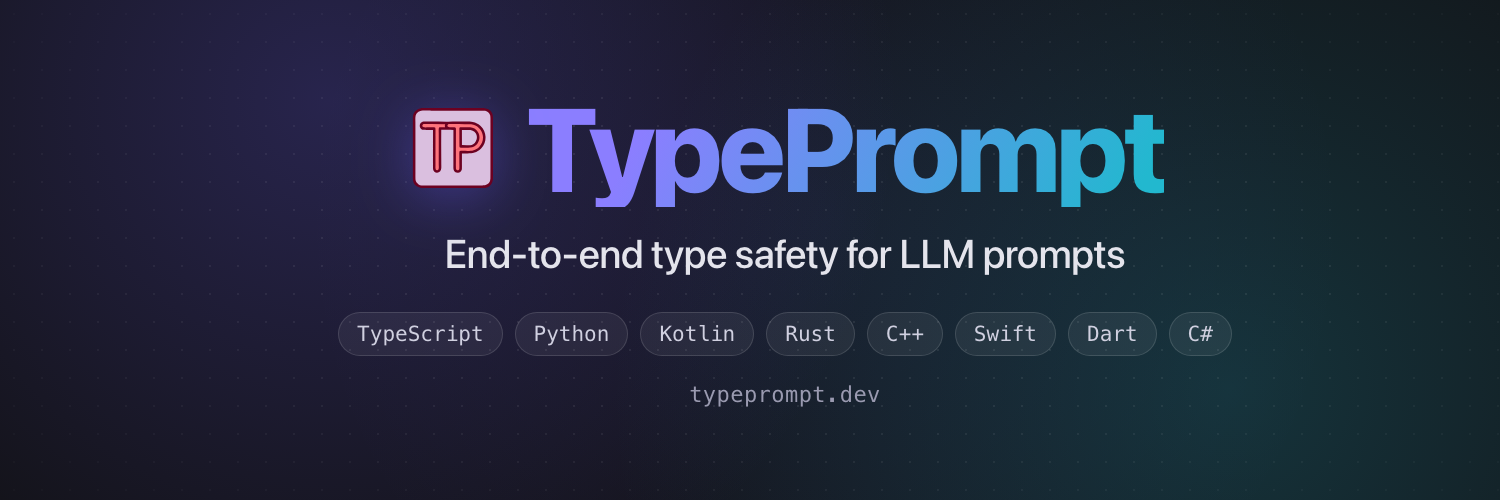
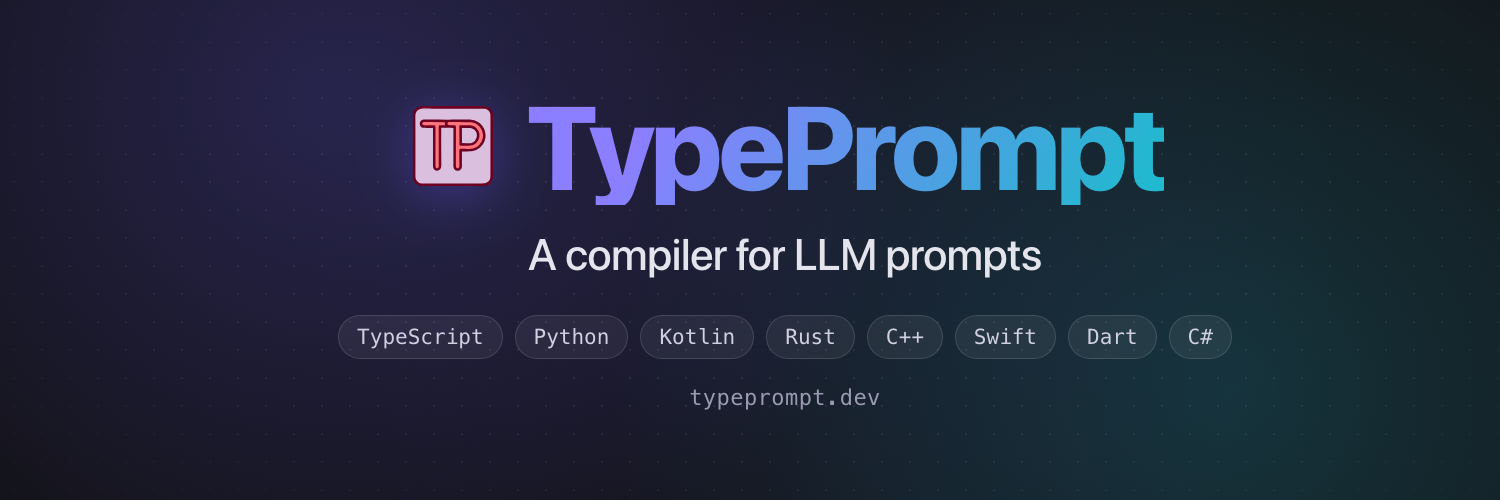
update tag line

diff --git a/README.md b/README.md
@@ -3,11 +3,11 @@
 
 # TypePrompt
 
-**End-to-end type safety for LLM prompts.**
+**A compiler for LLM prompts.**
 
 [Website](https://typeprompt.dev) · [Docs](https://typeprompt.dev/introduction) · [Quick Start](https://typeprompt.dev/quick-start) · [VS Code Extension](https://marketplace.visualstudio.com/items?itemName=gepheum.typeprompt-vscode) · [Examples](examples)
 
-Write prompt templates with schemas, tools, and few-shot examples in dedicated `.tp` files. TypePrompt compiles them into a type-safe API for your target language — with zero framework lock-in, ready to drop into whatever LLM SDK you already use.
+Write prompt instructions, schemas, tools, and few-shot examples in dedicated `.tp` files. TypePrompt validates them at build time and compiles them into a type-safe API for your target language — with zero framework lock-in, ready to drop into whatever LLM SDK you already use.
 
 **Supported languages:** TypeScript, Python, Kotlin, Rust, C++, Swift, Dart, C#
 

diff --git a/docs/index.md b/docs/index.md
@@ -1,12 +1,12 @@
 ---
 layout: home
 title: TypePrompt
-titleTemplate: End-to-end type safety for LLM prompts
+titleTemplate: A compiler for LLM prompts
 
 hero:
   name: TypePrompt
-  text: End-to-end type safety for LLM prompts
-  tagline: Write prompt templates with schemas and few-shot examples in dedicated files. TypePrompt compiles them into a <span class="nowrap">type-safe</span> API that works with any LLM SDK.
+  text: A compiler for LLM prompts
+  tagline: Write prompt instructions, schemas, tools, and few-shot examples in dedicated files. TypePrompt validates them at build time and compiles them into a <span class="nowrap">type-safe</span> API for 8 languages — ready for any LLM SDK.
   image:
     src: /tilly.svg
     alt: Tilly

diff --git a/packages/cli/README.md b/packages/cli/README.md
@@ -1,6 +1,6 @@
 # @typeprompt/cli
 
-CLI for [TypePrompt](https://typeprompt.dev) — end-to-end type safety for LLM prompts across TypeScript, Python, Kotlin, Rust, C++, Swift, Dart, and C#.
+CLI for [TypePrompt](https://typeprompt.dev) — a compiler for LLM prompts across TypeScript, Python, Kotlin, Rust, C++, Swift, Dart, and C#.
 
 [Website](https://typeprompt.dev) · [Docs](https://typeprompt.dev/introduction) · [Quick Start](https://typeprompt.dev/quick-start) · [CLI Reference](https://typeprompt.dev/cli) · [VS Code Extension](https://marketplace.visualstudio.com/items?itemName=gepheum.typeprompt-vscode) · [GitHub](https://github.com/gepheum/typeprompt)
 

diff --git a/packages/vscode/README.md b/packages/vscode/README.md
@@ -1,6 +1,6 @@
 # TypePrompt
 
-**End-to-end type safety for LLM prompts.**
+**A compiler for LLM prompts.**
 
 [Website](https://typeprompt.dev) · [Docs](https://typeprompt.dev/introduction) · [Quick Start](https://typeprompt.dev/quick-start) · [Playground](https://typeprompt.dev/playground) · [GitHub](https://github.com/gepheum/typeprompt)
 
